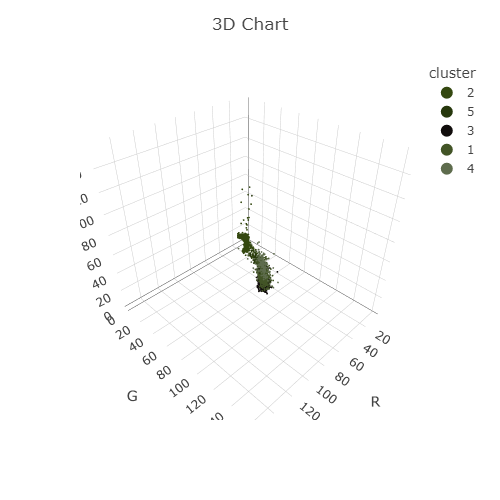
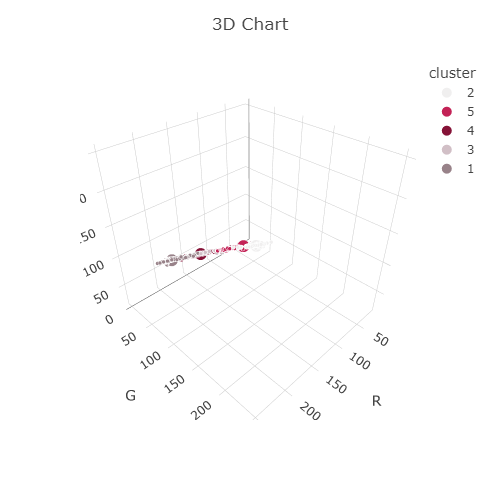
10th commit

diff --git a/kmeans_streamlit.py b/kmeans_streamlit.py
@@ -25,7 +25,8 @@ def main():
     MAX_iter = 30
     resize = 4096
     N_CLUSTERS = st.sidebar.selectbox('Number of clusters:', list(range(2, 11)), index=3)
-    mk_color = st.sidebar.radio('3D chart color:', ('gradiation', 'color'))
+    mk_color = st.sidebar.radio('3D chart color:', ('gradation', 'color'))
+    sel_mark = st.sidebar.radio('COG marker:', ('off', 'on'))
     sel_mode = st.sidebar.radio('Select:', ('All', 'Region'))
     print(f'Session state: {st.session_state.id}')
 
@@ -52,9 +53,9 @@ def main():
     except (ValueError):
         st.write(':red[Region failure]')
         return
-    
+
     ratio = color_ratio(dset, idx, cog, N_CLUSTERS, sel)
-    plot_graph(dset, idx, cog, ratio, N_CLUSTERS, sel, mk_color)
+    plot_graph(dset, idx, cog, ratio, N_CLUSTERS, sel, mk_color, sel_mark)
     plot_color(ratio, N_CLUSTERS)
 
     file_dload('3D_chart')
@@ -122,7 +123,7 @@ def img_cut(img, mode):
 
 def dset_cut(dset, rgb, mode, r):
     if mode == 'circle':
-        pos = [True for i in range(len(dset))]
+        pos = [True for i in dset]
         col = int(len(dset)/len(rgb))
         for i in range(len(dset)):
             if (i%col - int(col/2))**2 + (int(i/col) - int(col/2))**2 > r**2:
@@ -152,32 +153,41 @@ def color_ratio(dset, idx, cog, n, sel):
 
     ratio = []
     for i in range(n):
-        ratio.append((rgb2hex(cog[i] if sel=='RGB' else lab2rgb(cog[i])), count[i]/ndata*100))
-
+        ratio.append((rgb2hex(cog[i] if sel=='RGB' else lab2rgb(cog[i])), count[i]/ndata*100, i))
     ratio_s = sorted(ratio, key=lambda x:x[1], reverse=True)
+    
     for i in range(n):
         s = f'{hex2rgb(ratio_s[i][0])}' + ' '*10
         print(f'{i+1}:', f'{ratio_s[i][0]}  ', s[0:16], f'{ratio_s[i][1]:.2f}%')
     print()
     return ratio_s
 
-def plot_graph(dset, idx, cog, ratio, n, sel, sel2):
-    item = ['R', 'G', 'B', 'cluster', 'mark'] if sel=='RGB' else ['L*', 'a*', 'b*', 'cluster', 'mark']
+def plot_graph(dset, idx, cog, ratio, n, sel1, sel2, sel3):
+    item = ['R', 'G', 'B', 'cluster', 'mark', 'opacity', 'sort'] \
+        if sel1=='RGB' else ['L*', 'a*', 'b*', 'cluster', 'mark', 'opacity', 'sort']
     df1 = pd.DataFrame(dset)
-    df1['3'] = idx+1 if sel2=='gradiation' else [str(i+1) for i in idx]
-    df1['4'] = [1 for i in dset]
+    df1['3'] = idx+1 if sel2=='gradation' else [str(i+1) for i in idx]
+    df1['4'] = [0.1 for i in dset]
+    df1['5'] = [0.5 for i in dset]
+    df1['6'] = [0.5 for i in dset]
     df1.columns = item
-    
-    df2 = pd.DataFrame(cog)
-    df2['3'] = [n+2 for i in range(n)]
-    df2['4'] = [5 for i in cog]
-    colors = [c for c, i in ratio]
 
-    fig = px.scatter_3d(df1, x='R', y='G', z='B', color='cluster', color_discrete_sequence=colors, size='mark') \
-        if sel=='RGB' else px.scatter_3d(df1, x='a*', y='b*', z='L*', color='cluster', color_discrete_sequence=colors, size='mark')
+    df2 = pd.DataFrame(cog.astype(int))
+    df2['3'] = [i+1 for i in range(n)]  if sel2=='gradation' else [str(i+1) for i in range(n)]
+    df2['4'] = [1 for i in cog]
+    df2['5'] = [1.0 for i in cog]
+    df2['6'] = [1.0 for i in cog]
+    df2.columns = item
+    df = pd.concat([df1, df2])
+    df.sort_values('sort', ascending=True)
+    colors = [ratio[i][0] for i in range(n)]
+
+    fig = px.scatter_3d(df, x='R', y='G', z='B', color='cluster', color_discrete_sequence=colors, size='mark', opacity=1.0) \
+        if sel1=='RGB' else px.scatter_3d(df, x='a*', y='b*', z='L*', color='cluster', color_discrete_sequence=colors, size='mark', opacity=1.0)
 
     fig.update_layout(title='3D Chart', width=500, height=500)
-    fig.update_traces(marker_size=1)
+    if sel3 == 'off':
+        fig.update_traces(marker_size=1)
     st.plotly_chart(fig, use_container_width=True)
     pio.write_image(fig, './out_3D_chart.png', format='png')
     return
@@ -194,7 +204,7 @@ def plot_color(ratio, n):
         rectcolor = ratio[i][0]
         ypos = i*75 + 75
         draw.rectangle([(50, ypos-15), (100, ypos+35)], outline=rectcolor, fill=rectcolor, width=0)
-        draw.text(( 25, ypos), f'{i+1}',                fill=textcolor, font=font)
+        draw.text((  0, ypos), f'{i+1}',                fill=textcolor, font=font)
         draw.text((125, ypos), f'{rectcolor}',          fill=textcolor, font=font)
         draw.text((230, ypos), f'{hex2rgb(rectcolor)}', fill=textcolor, font=font)
         draw.text((400, ypos), f'{ratio[i][1]:.1f} %',  fill=textcolor, font=font)
